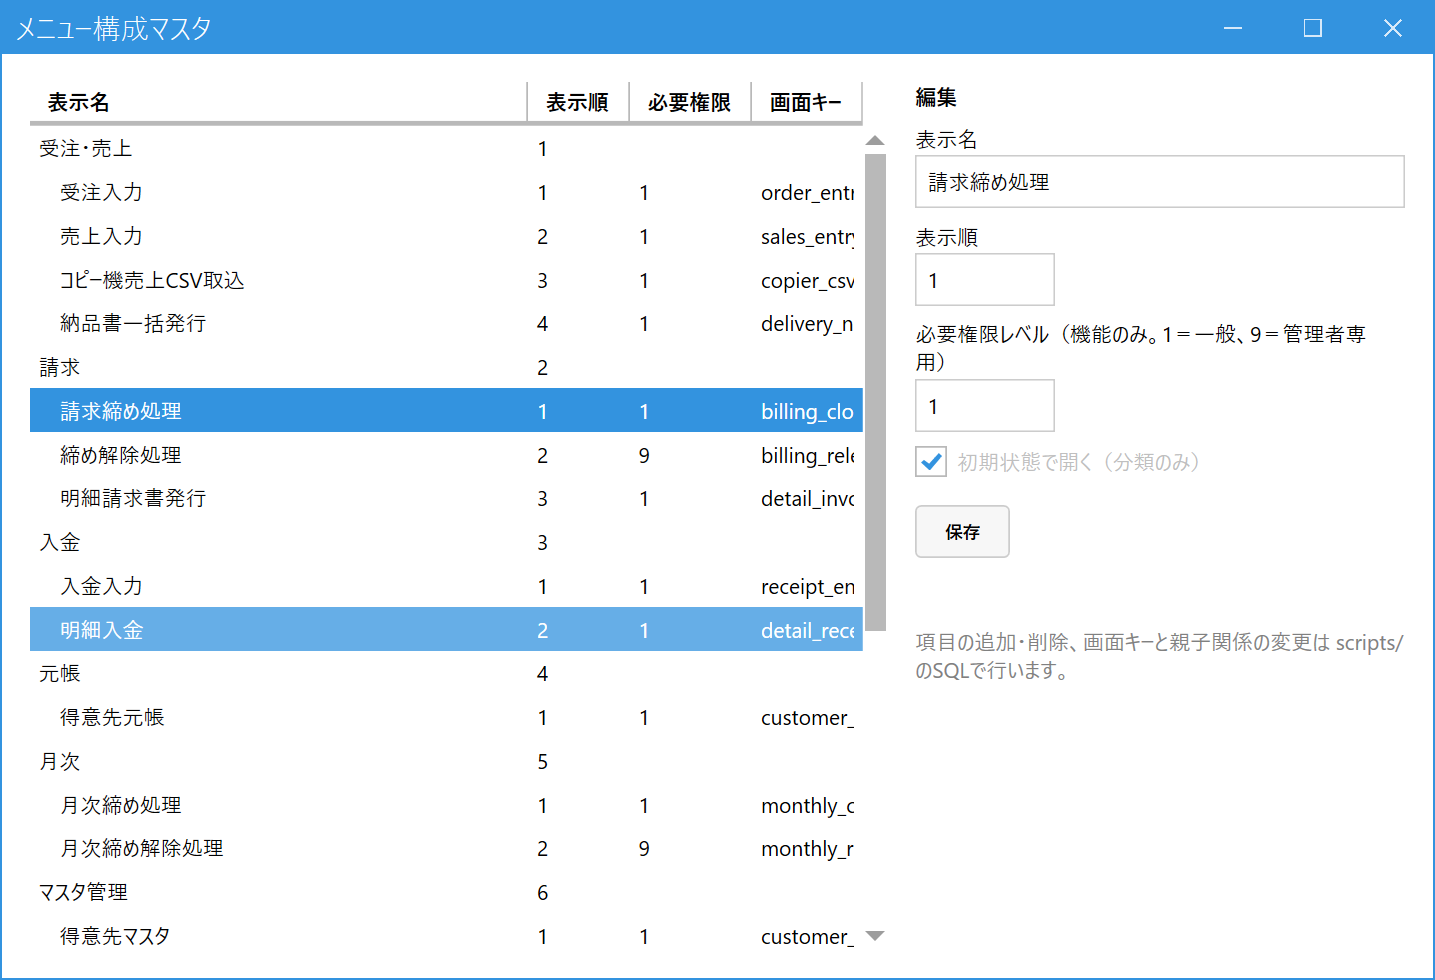
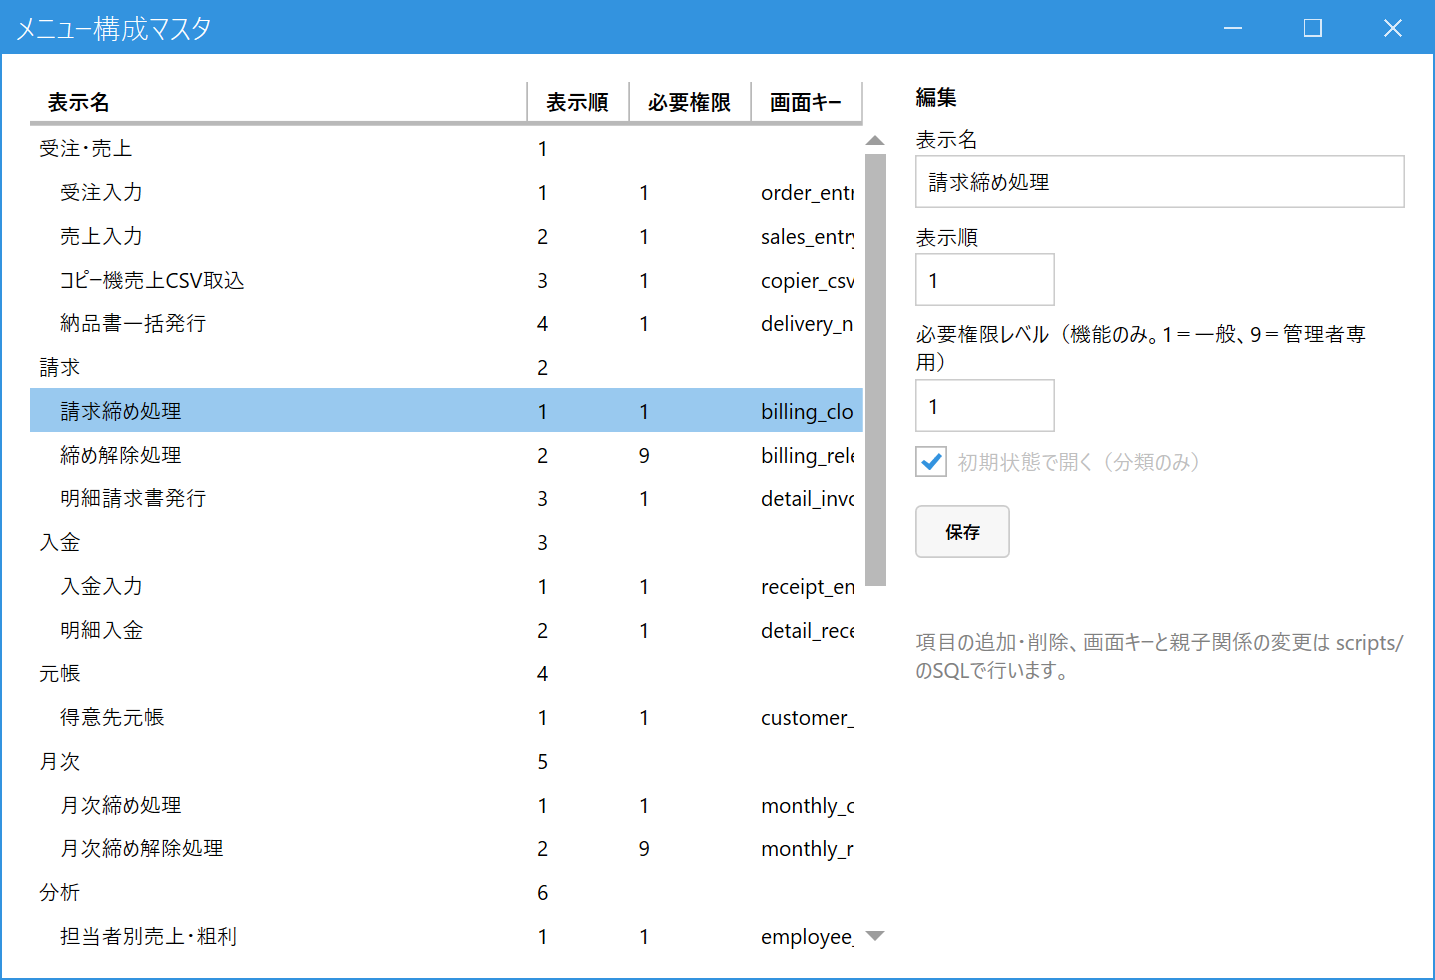
操作マニュアルを最新の画面に合わせて更新する
- 担当者別売上・粗利のページを追加し、目次と前後リンクに入れる。
- 受注入力・売上入力で、請求単位の得意先は消費税が参考表示になることを追記する。
- プリンタ設定・メニューマスタ管理・クエリの分類を「システム設定」に直す。
- メインメニュー（ヘルプボタン入り）とメニュー構成マスタの画像を撮り直し、
  目次にヘルプボタンの説明を追加する。

diff --git a/docs/user-manual-jp/employee-sales.html b/docs/user-manual-jp/employee-sales.html
@@ -1,0 +1,61 @@
+<!DOCTYPE html>
+<html lang="ja">
+<head>
+<meta charset="utf-8">
+<meta name="viewport" content="width=device-width, initial-scale=1">
+<title>担当者別の売上・粗利を見る - 操作マニュアル</title>
+<link rel="stylesheet" href="manual.css">
+</head>
+<body>
+<header class="site"><a href="index.html">操作マニュアル</a> <span class="crumb">／ 担当者別の売上・粗利を見る</span></header>
+<main>
+
+<h1>担当者別の売上・粗利を見る</h1>
+
+<div class="goal">
+  <b>こんなときに使います</b><br>
+  「今月、<b>誰がいくら売って、いくら利益が出たか</b>」を確認します。<br>
+  月ごとに、担当者別の売上額・原価・粗利・粗利率が出ます。見るだけの画面で、データは変わりません。
+</div>
+
+<h2><span class="no">1.</span>月を選んで表示する</h2>
+<p>メインメニューの<b>「分析」</b>の中の<b>「担当者別売上・粗利」</b>を開きます。開くと<b>今月</b>の集計が表示されます。ほかの月を見るときは、<b>年</b>（4桁）と<b>月</b>を変えると、すぐに表示し直します。</p>
+<figure data-ann='[
+ {"r":[30,82,325,53],"n":1,"b":[700,108]},
+ {"r":[30,156,1270,208],"n":2,"b":[1000,110]},
+ {"r":[30,371,1270,42],"n":3,"b":[400,560]},
+ {"r":[22,878,640,40],"n":4,"b":[900,800]}]'>
+  <div class="frame"><img src="images/esales-01-main.png" alt="担当者別売上・粗利"></div>
+  <figcaption>担当者別売上・粗利（2026年10月の例）</figcaption>
+</figure>
+<ol class="legend">
+  <li><b>年・月</b>：集計する月です。月次締めをしていない月でも見られます。</li>
+  <li><b>担当者ごとの集計</b>：担当者コード順に、売上額・原価・粗利・粗利率が並びます。</li>
+  <li><b>（担当者なし）</b>：担当者が決まらない売上をまとめた行です（下の「担当者の決まり方」参照）。いちばん下に出ます。</li>
+  <li><b>合計</b>：全担当者の売上額・原価・粗利の合計です。</li>
+</ol>
+
+<h2><span class="no">2.</span>数字の見かた</h2>
+<table>
+  <tr><th>項目</th><th>意味</th></tr>
+  <tr><td>売上額</td><td>その月の売上の<b>税抜</b>金額。返品・値引を差し引いた金額です。</td></tr>
+  <tr><td>原価</td><td>数量 × 原価単価 の合計。</td></tr>
+  <tr><td>粗利</td><td>売上額 − 原価。</td></tr>
+  <tr><td>粗利率(%)</td><td>粗利 ÷ 売上額。売上額が0のときは空欄です。</td></tr>
+</table>
+
+<h3>担当者の決まり方</h3>
+<ol class="steps">
+  <li>売上伝票の<b>担当者</b>欄に入っている人。</li>
+  <li>伝票の担当者が空なら、<a href="master-customer.html">得意先マスタ</a>の<b>営業担当</b>。</li>
+  <li>どちらも無ければ<b>「（担当者なし）」</b>。</li>
+</ol>
+
+<div class="note">集計は、画面を開くたび（年・月を変えるたび）にその時点の売上から計算し直します。取り消した売上は含みません。</div>
+<div class="note">請求の集約（支店の売上を本社にまとめて請求する設定）があっても、売上伝票の得意先のまま担当者に計上します。</div>
+
+<nav class="pager"><a href="monthly-closing.html">← 前：月次締めをする</a><a href="billing-release.html">次：請求の締めを解除する（管理者） →</a></nav>
+</main>
+<script src="manual.js"></script>
+</body>
+</html>

diff --git a/docs/user-manual-jp/index.html b/docs/user-manual-jp/index.html
@@ -59,6 +59,10 @@
   <a href="detail-invoice.html"><b>明細請求書を発行する</b>都度請求のお客様の請求書をその都度出す</a>
   <a href="monthly-closing.html"><b>月次締めをする</b>月末の売掛残高を確定する</a>
 </div>
+<h3>分析</h3>
+<div class="cards">
+  <a href="employee-sales.html"><b>担当者別の売上・粗利を見る</b>月ごとに、誰がいくら売って利益が出たかを確認する</a>
+</div>
 <h3>管理者の作業（権限レベル9）</h3>
 <div class="cards">
   <a href="billing-release.html"><b>請求の締めを解除する</b>誤って締めた請求を取り消す</a>
@@ -102,6 +106,15 @@
 
 <div class="note">入力を保存せずに画面を閉じても、データは登録されません。迷ったら <kbd>F3</kbd> で空に戻して、最初からやり直せます。</div>
 
+<h2>わからないときは</h2>
+<p>メインメニューの名前の右にある<b>「？」ボタン</b>を押すと、このマニュアルが新しいブラウザのウインドウで開きます。</p>
+<figure class="narrow" data-ann='[{"r":[324,108,63,63],"n":1,"b":[450,140]}]'>
+  <div class="frame"><img src="images/menu.png" alt="メインメニュー"></div>
+  <figcaption>メインメニュー</figcaption>
+</figure>
+<ol class="legend"><li>「？」ボタン（ヘルプ）</li></ol>
+
 </main>
+<script src="manual.js"></script>
 </body>
 </html>

diff --git a/docs/user-manual-jp/delivery-note-bulk.html b/docs/user-manual-jp/delivery-note-bulk.html
@@ -49,7 +49,7 @@
   <li>印刷が終わるまで待つ。画面下に「納品書の印刷が完了しました（成功 ○件／失敗 ○件）」と出ます。</li>
 </ol>
 <div class="note">印刷に成功した伝票は「発行済み」になり、次に画面を開いたときや「再読込」を押したときは一覧に出なくなります。失敗した伝票は未発行のまま残るので、プリンタを確認してやり直します。</div>
-<div class="note">印刷するプリンタは、端末ごとに「マスタ管理」の「プリンタ設定」で決めます。未設定のときは、印刷のたびに印刷ダイアログが開きます。</div>
+<div class="note">印刷するプリンタは、端末ごとに「システム設定」の「プリンタ設定」で決めます。未設定のときは、印刷のたびに印刷ダイアログが開きます。</div>
 <div class="warn">1枚だけ見直したい・内容を確認してから出したいときは、この画面ではなく<a href="sales-entry.html">売上入力</a>で伝票を呼び出し、画面下の<b>「印刷」</b>（<kbd>F11</kbd>）を使います（プレビューが開きます）。</div>
 
 <nav class="pager"><a href="sales-entry.html">← 前：売上を登録する</a><a href="copier-csv-import.html">次：コピー機の売上を取り込む →</a></nav>

diff --git a/docs/user-manual-jp/master-menu.html b/docs/user-manual-jp/master-menu.html
@@ -21,7 +21,7 @@
 <div class="warn"><b>管理者専用の画面です。</b>権限レベル9の社員にだけメニューに表示されます。変更は、<b>メインメニューを次に起動したとき</b>から反映されます。</div>
 
 <h2><span class="no">1.</span>項目を選んで、直して、保存する</h2>
-<p>メインメニューの<b>「マスタ管理」</b>の中の<b>「メニューマスタ管理」</b>を開きます。左の一覧から直したい項目をクリックすると、右の「編集」に内容が出ます。</p>
+<p>メインメニューの<b>「システム設定」</b>の中の<b>「メニューマスタ管理」</b>を開きます。左の一覧から直したい項目をクリックすると、右の「編集」に内容が出ます。</p>
 <figure class="mid" data-ann='[{"r":[30,130,830,820],"n":1,"b":[880,952]},{"r":[30,388,833,44],"n":2,"b":[400,952]},{"r":[915,155,490,53],"n":3,"b":[1300,110]},{"r":[915,253,140,53],"n":4,"b":[1300,280]},{"r":[915,379,140,53],"n":5,"b":[1300,405]},{"r":[915,445,300,32],"n":6,"b":[1300,490]},{"r":[915,505,95,53],"n":7,"b":[1200,531]}]'>
   <div class="frame"><img src="images/mmenu-01-selected.png" alt="メニュー構成マスタ"></div>
   <figcaption>メニュー構成マスタ（「請求締め処理」を選んだ状態）</figcaption>

diff --git a/docs/user-manual-jp/master-printer.html b/docs/user-manual-jp/master-printer.html
@@ -20,7 +20,7 @@
 <div class="note">この設定は、<b>使っているパソコン（端末）ごと</b>に保存されます。ほかのパソコンには影響しません。パソコンごとに設定してください。</div>
 
 <h2><span class="no">1.</span>プリンタを選んで保存する</h2>
-<p>メインメニューの<b>「マスタ管理」</b>の中の<b>「プリンタ設定」</b>を開きます。</p>
+<p>メインメニューの<b>「システム設定」</b>の中の<b>「プリンタ設定」</b>を開きます。</p>
 <figure class="mid" data-ann='[{"r":[240,96,626,53],"n":1,"b":[891,122]},{"r":[240,170,626,52],"n":2,"b":[891,196]},{"r":[240,243,626,53],"n":3,"b":[891,269]},{"r":[240,317,626,52],"n":4,"b":[891,343]},{"r":[240,390,626,53],"n":5,"b":[891,416]},{"r":[772,505,94,53],"n":6,"b":[600,531]}]'>
   <div class="frame"><img src="images/mprn-01.png" alt="プリンタ設定"></div>
   <figcaption>プリンタ設定（プリンタ名は、パソコンによって違います）</figcaption>

diff --git a/docs/user-manual-jp/order-entry.html b/docs/user-manual-jp/order-entry.html
@@ -101,7 +101,7 @@
 </figure>
 <ol class="legend">
   <li><b>摘要</b>：伝票に残したいメモ（任意）。右隣の「社内摘要」は社内用で、納品書には印字されません。</li>
-  <li><b>合計</b>：税込の合計です。注文内容と合っているか確認します。</li>
+  <li><b>合計</b>：税込の合計です。注文内容と合っているか確認します。税区分が<b>請求単位</b>の得意先では、消費税は請求を締めるときに計算し直すため、「《消費税計（参考）》」「（外税・参考）」と表示されます。</li>
   <li><b>保存</b>：ここを押すか <kbd>F10</kbd>。</li>
 </ol>
 <p>保存に成功すると、画面下に<b>「登録しました。受注No. ○○○○○○○○」</b>と表示され、画面は次の入力のために空に戻ります。控えが必要なときは、この受注Noを書き留めておきます。</p>

diff --git a/docs/user-manual-jp/monthly-closing.html b/docs/user-manual-jp/monthly-closing.html
@@ -60,7 +60,7 @@
 </table>
 <p>誤って締めたとき、締めた後に直したいことが出たときは、<b>管理者</b>が<a href="monthly-release.html">月次締め解除</a>で解除します。解除すると、その月の伝票をすぐ直せます。直した後は、もう一度「月次締め処理」で締め直します（解除済みの結果は上書きされます）。</p>
 
-<nav class="pager"><a href="customer-ledger.html">← 前：得意先の残高を調べる</a><a href="billing-release.html">次：請求の締めを解除する（管理者） →</a></nav>
+<nav class="pager"><a href="customer-ledger.html">← 前：得意先の残高を調べる</a><a href="employee-sales.html">次：担当者別の売上・粗利を見る →</a></nav>
 </main>
 <script src="manual.js"></script>
 </body>

diff --git a/docs/user-manual-jp/master-query.html b/docs/user-manual-jp/master-query.html
@@ -21,7 +21,7 @@
 <div class="warn"><b>管理者専用の画面です。</b>権限レベル9の社員にだけメニューに表示されます。クエリは、システムのデータベースにそのまま問い合わせるため、<b>クエリの内容を書き換えられるのは、SQLのわかる管理者に限ってください</b>。</div>
 
 <h2><span class="no">1.</span>クエリを選んで実行する</h2>
-<p>メインメニューの<b>「マスタ管理」</b>の中の<b>「Generic Query」</b>を開きます。</p>
+<p>メインメニューの<b>「システム設定」</b>の中の<b>「Generic Query」</b>を開きます。</p>
 <figure data-ann='[
  {"r":[30,82,504,53],"n":1,"b":[700,108]},
  {"r":[30,156,504,196],"n":2,"b":[700,250]},

diff --git a/docs/user-manual-jp/sales-entry.html b/docs/user-manual-jp/sales-entry.html
@@ -90,7 +90,7 @@
   <figcaption>画面右下</figcaption>
 </figure>
 <ol class="legend">
-  <li><b>合計</b>：税込の合計金額です。</li>
+  <li><b>合計</b>：税込の合計金額です。税区分が<b>請求単位</b>の得意先では、消費税は請求を締めるときに計算し直すため、「《消費税計（参考）》」「（外税・参考）」と表示されます（伝票の税額は参考値です）。</li>
   <li><b>保存</b>（<kbd>F10</kbd>）：売上を登録します。</li>
   <li><b>印刷</b>（<kbd>F11</kbd>）：登録済みの売上を呼び出したときに、納品書を印刷します（新規入力中は押せません）。</li>
 </ol>

diff --git a/docs/user-manual-jp/billing-release.html b/docs/user-manual-jp/billing-release.html
@@ -53,7 +53,7 @@
 </ol>
 <div class="note">請求書は、解除すると一覧に出なくなります。すでに印刷・送付した請求書があれば、締め直したものと差し替えてください。</div>
 
-<nav class="pager"><a href="monthly-closing.html">← 前：月次締めをする</a><a href="monthly-release.html">次：月次締めを解除する（管理者） →</a></nav>
+<nav class="pager"><a href="employee-sales.html">← 前：担当者別の売上・粗利を見る</a><a href="monthly-release.html">次：月次締めを解除する（管理者） →</a></nav>
 </main>
 <script src="manual.js"></script>
 </body>
